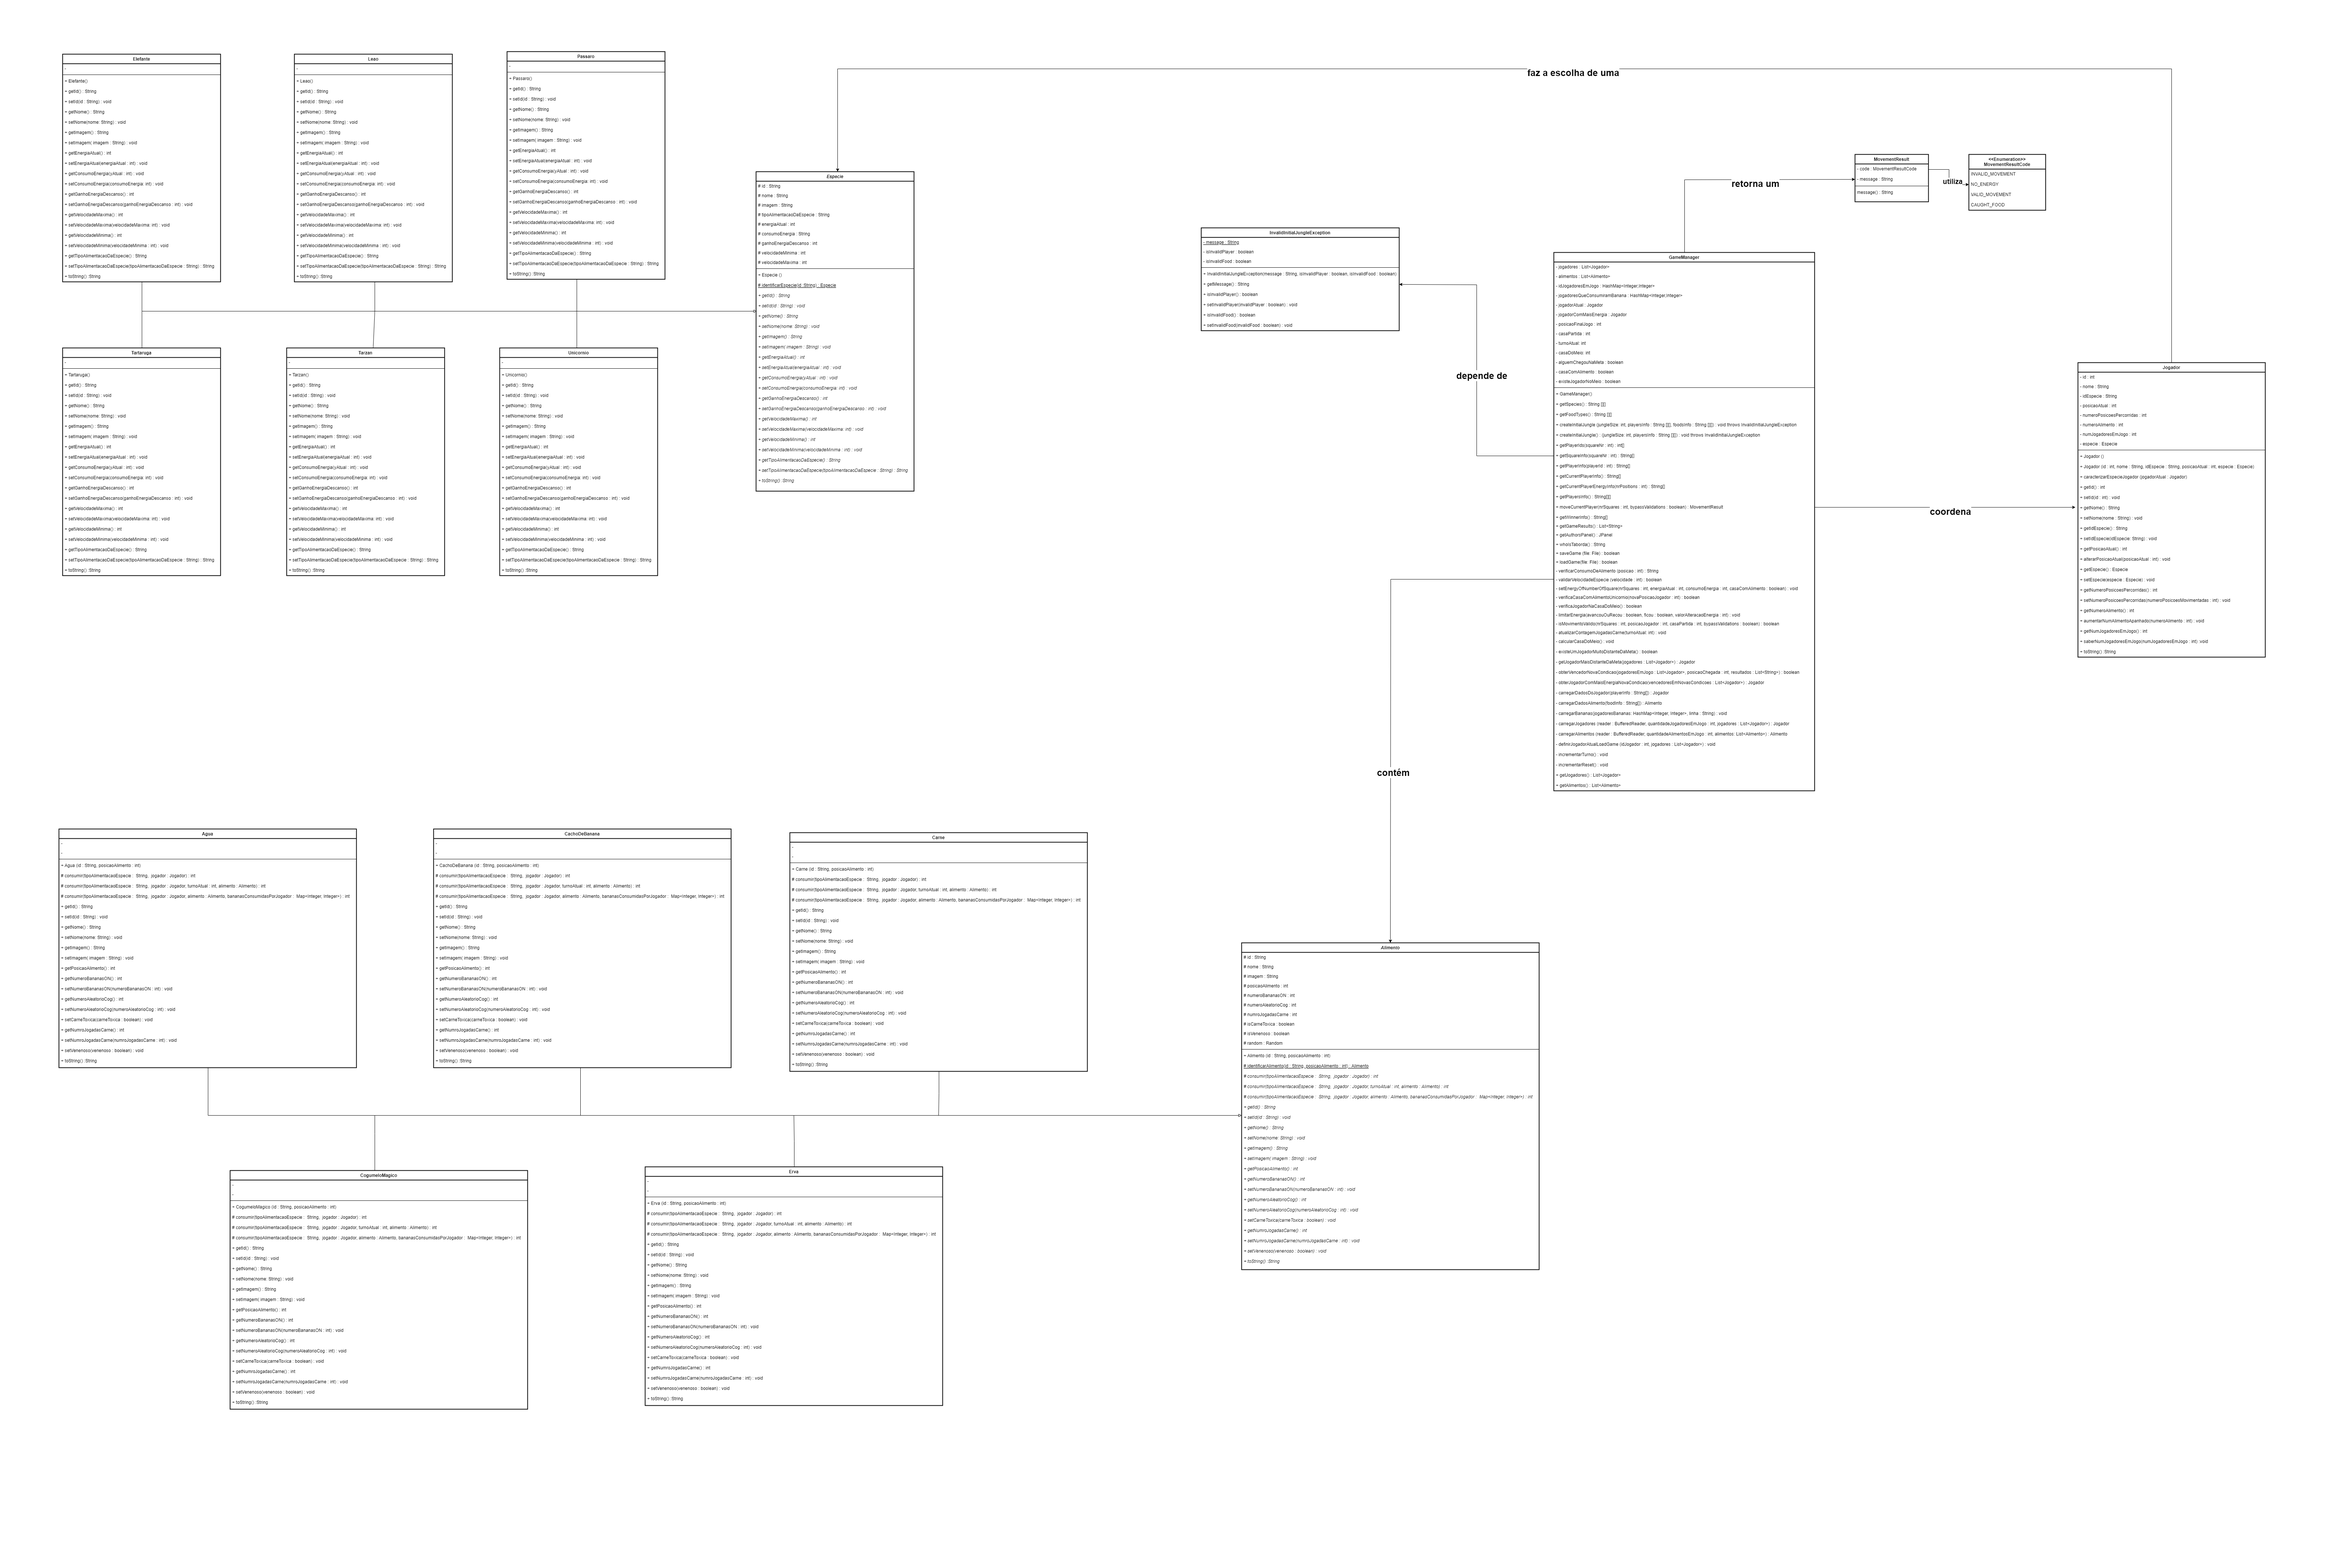
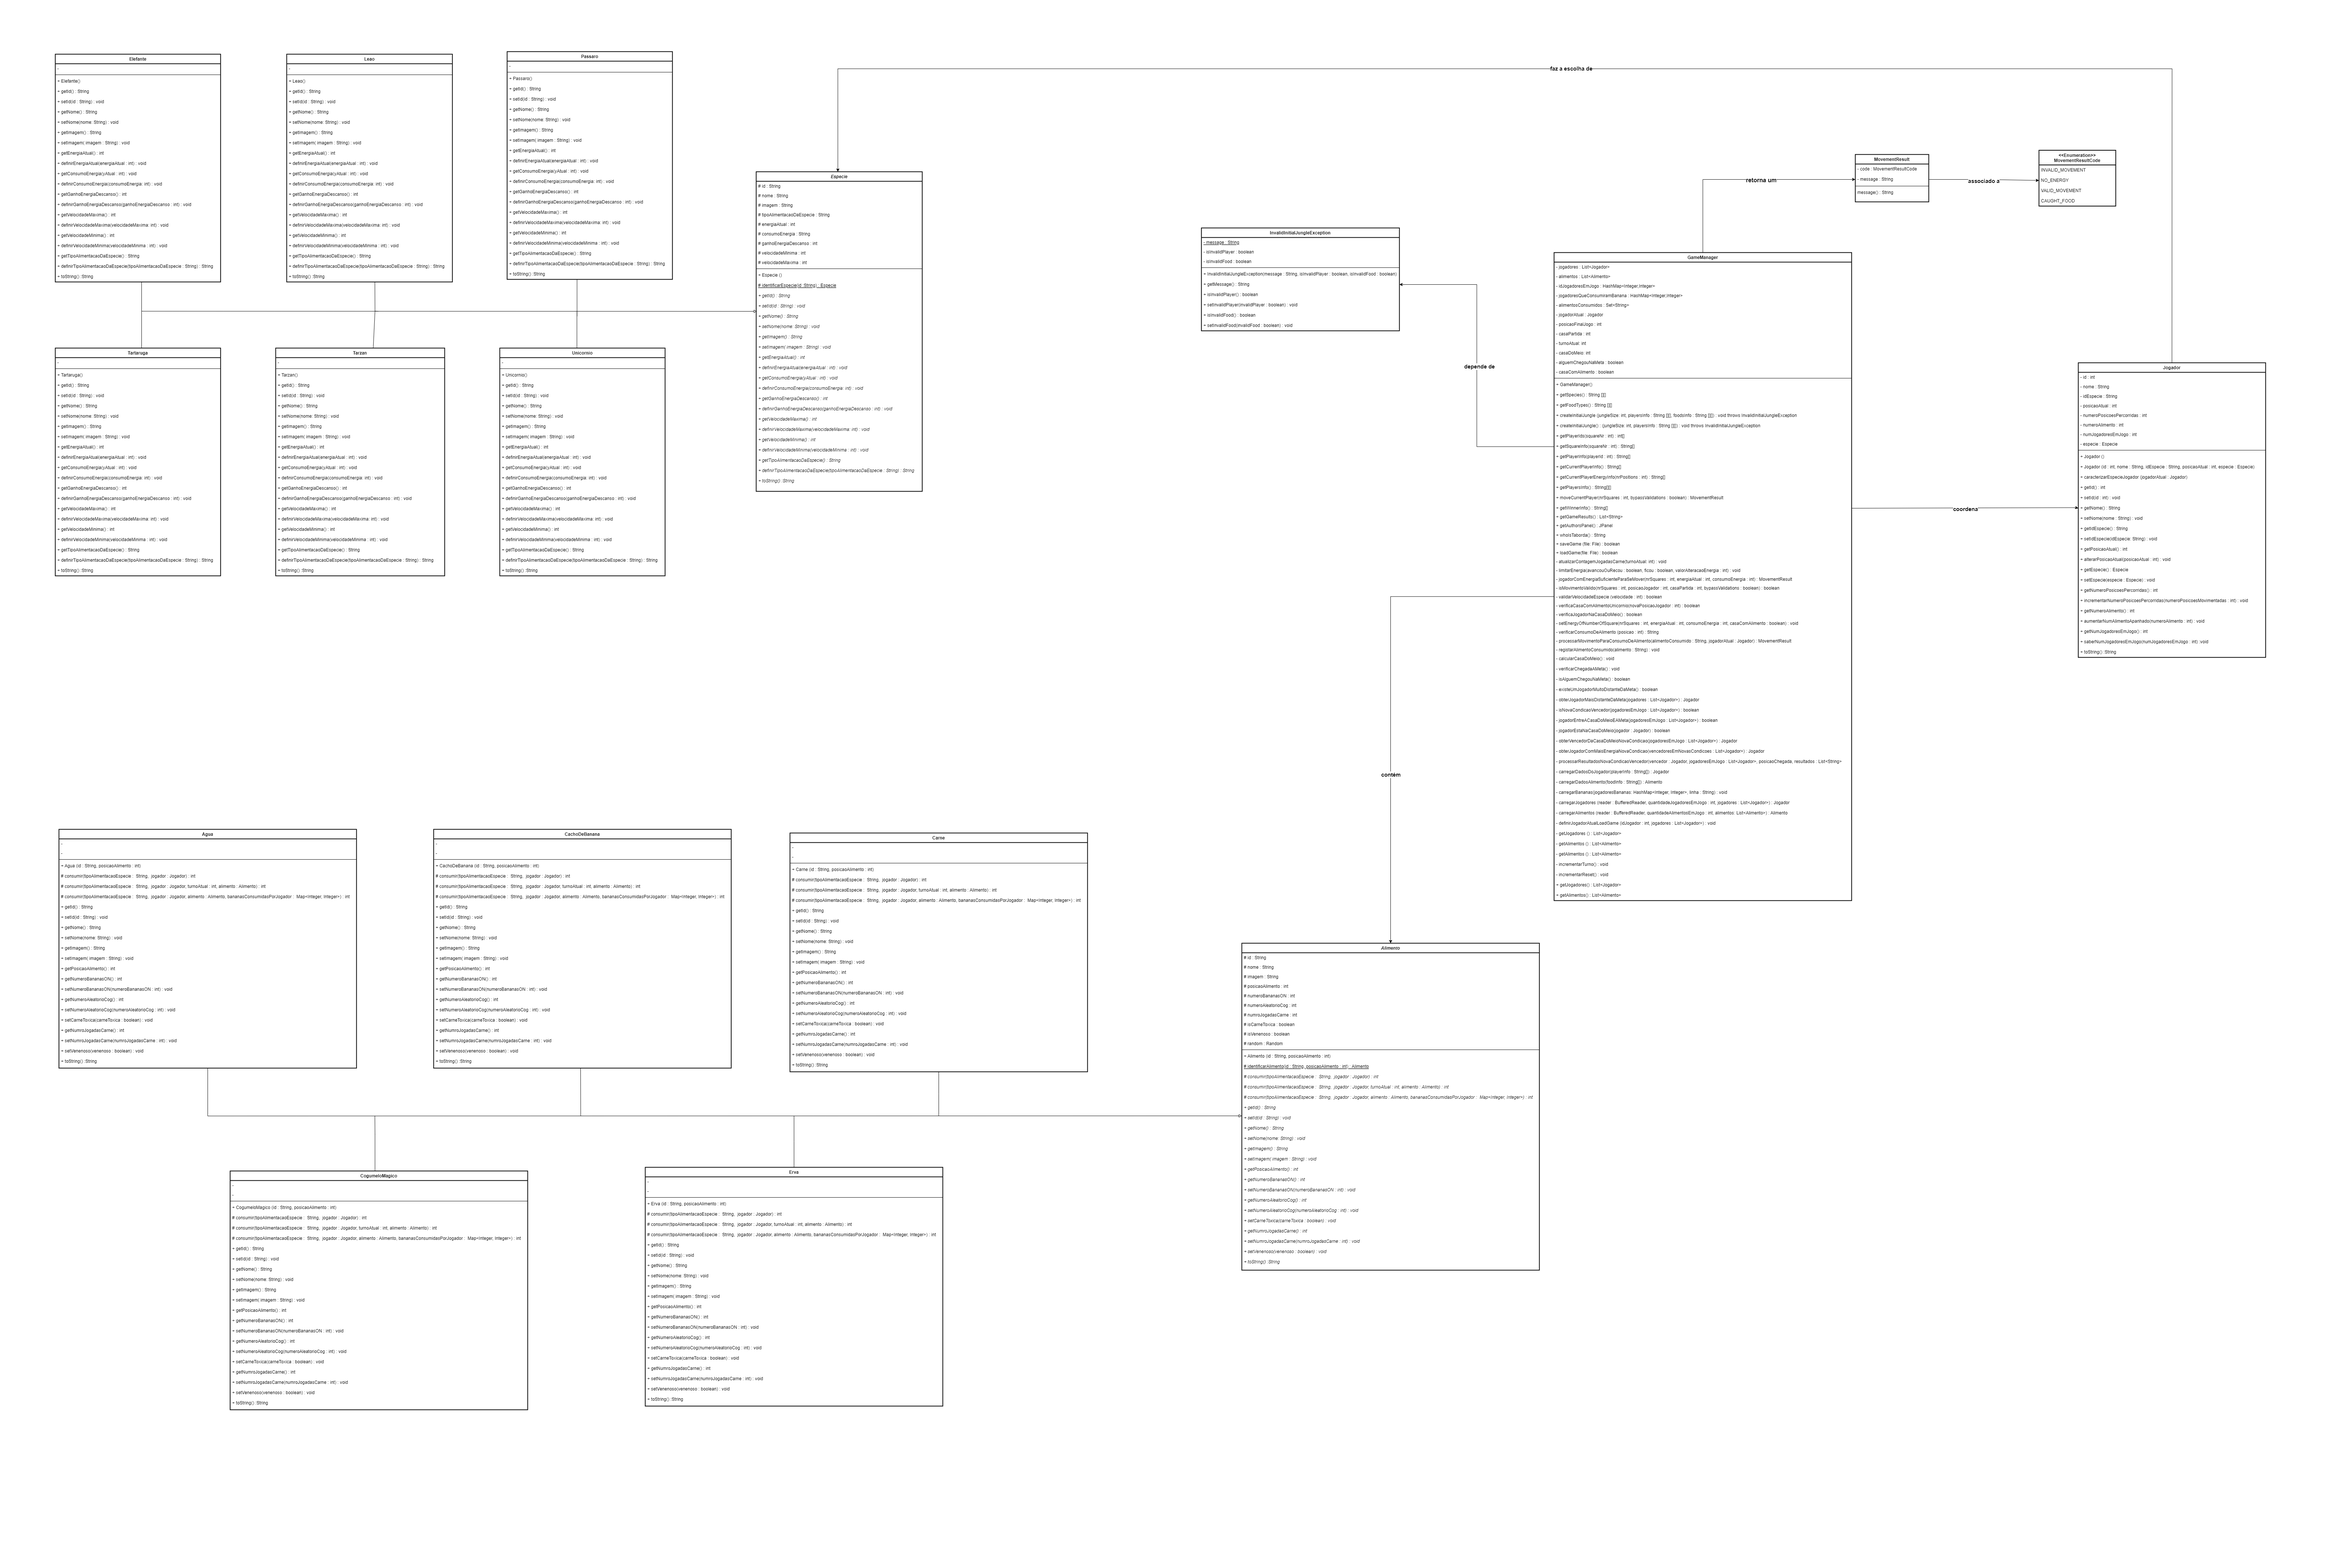
> ...

diff --git a/src/pt/ulusofona/lp2/deisiJungle/GameManager.java b/src/pt/ulusofona/lp2/deisiJungle/GameManager.java
@@ -1228,7 +1228,7 @@ public class GameManager {
         novoJogador.getEspecie().definirEnergiaAtual(novaEnergiaAtual);
         novoJogador.incrementarNumeroPosicoesPercorridas(novaPosicaoPercorridas);
         novoJogador.aumentarNumAlimentoApanhado(novoNumAlimento);
-        novoJogador.getEspecie().setTipoAlimentacaoDaEspecie(novoTipoAlimentacaoEspecie);
+        novoJogador.getEspecie().definirTipoAlimentacaoDaEspecie(novoTipoAlimentacaoEspecie);
         novoJogador.getEspecie().definirConsumoEnergia(novoConsumoEnergia);
         novoJogador.getEspecie().definirGanhoEnergiaDescanso(novoGanhoEnergia);
         novoJogador.getEspecie().definirVelocidadeMinima(novaVelocidadeMinima);

diff --git a/src/pt/ulusofona/lp2/deisiJungle/especieFilho/Tartaruga.java b/src/pt/ulusofona/lp2/deisiJungle/especieFilho/Tartaruga.java
@@ -102,7 +102,7 @@ public class Tartaruga extends Especie {
     }
 
     @Override
-    public String setTipoAlimentacaoDaEspecie(String tipoAlimentacaoDaEspecie) {
+    public String definirTipoAlimentacaoDaEspecie(String tipoAlimentacaoDaEspecie) {
         this.tipoAlimentacaoDaEspecie = tipoAlimentacaoDaEspecie;
         return tipoAlimentacaoDaEspecie;
     }

diff --git a/src/pt/ulusofona/lp2/deisiJungle/especieFilho/Unicornio.java b/src/pt/ulusofona/lp2/deisiJungle/especieFilho/Unicornio.java
@@ -102,7 +102,7 @@ public class Unicornio extends Especie {
     }
 
     @Override
-    public String setTipoAlimentacaoDaEspecie(String tipoAlimentacaoDaEspecie) {
+    public String definirTipoAlimentacaoDaEspecie(String tipoAlimentacaoDaEspecie) {
         this.tipoAlimentacaoDaEspecie = tipoAlimentacaoDaEspecie;
         return tipoAlimentacaoDaEspecie;
     }

diff --git a/src/pt/ulusofona/lp2/deisiJungle/especieFilho/Elefante.java b/src/pt/ulusofona/lp2/deisiJungle/especieFilho/Elefante.java
@@ -102,7 +102,7 @@ public class Elefante extends Especie {
     }
 
     @Override
-    public String setTipoAlimentacaoDaEspecie(String tipoAlimentacaoDaEspecie) {
+    public String definirTipoAlimentacaoDaEspecie(String tipoAlimentacaoDaEspecie) {
         this.tipoAlimentacaoDaEspecie = tipoAlimentacaoDaEspecie;
         return tipoAlimentacaoDaEspecie;
     }

diff --git a/src/pt/ulusofona/lp2/deisiJungle/especieFilho/Passaro.java b/src/pt/ulusofona/lp2/deisiJungle/especieFilho/Passaro.java
@@ -102,7 +102,7 @@ public class Passaro extends Especie {
     }
 
     @Override
-    public String setTipoAlimentacaoDaEspecie(String tipoAlimentacaoDaEspecie) {
+    public String definirTipoAlimentacaoDaEspecie(String tipoAlimentacaoDaEspecie) {
         this.tipoAlimentacaoDaEspecie = tipoAlimentacaoDaEspecie;
         return tipoAlimentacaoDaEspecie;
     }

diff --git a/src/pt/ulusofona/lp2/deisiJungle/especieFilho/Tarzan.java b/src/pt/ulusofona/lp2/deisiJungle/especieFilho/Tarzan.java
@@ -102,7 +102,7 @@ public class Tarzan extends Especie {
     }
 
     @Override
-    public String setTipoAlimentacaoDaEspecie(String tipoAlimentacaoDaEspecie) {
+    public String definirTipoAlimentacaoDaEspecie(String tipoAlimentacaoDaEspecie) {
         this.tipoAlimentacaoDaEspecie = tipoAlimentacaoDaEspecie;
         return tipoAlimentacaoDaEspecie;
     }

diff --git a/src/pt/ulusofona/lp2/deisiJungle/especieFilho/Leao.java b/src/pt/ulusofona/lp2/deisiJungle/especieFilho/Leao.java
@@ -102,7 +102,7 @@ public class Leao extends Especie {
     }
 
     @Override
-    public String setTipoAlimentacaoDaEspecie(String tipoAlimentacaoDaEspecie) {
+    public String definirTipoAlimentacaoDaEspecie(String tipoAlimentacaoDaEspecie) {
         this.tipoAlimentacaoDaEspecie = tipoAlimentacaoDaEspecie;
         return tipoAlimentacaoDaEspecie;
     }

diff --git a/src/pt/ulusofona/lp2/deisiJungle/Especie.java b/src/pt/ulusofona/lp2/deisiJungle/Especie.java
@@ -80,7 +80,7 @@ public abstract class Especie {
 
     public abstract String getTipoAlimentacaoDaEspecie();
 
-    public abstract String setTipoAlimentacaoDaEspecie(String tipoAlimentacaoDaEspecie);
+    public abstract String definirTipoAlimentacaoDaEspecie(String tipoAlimentacaoDaEspecie);
 
     public abstract String toString();
 }
